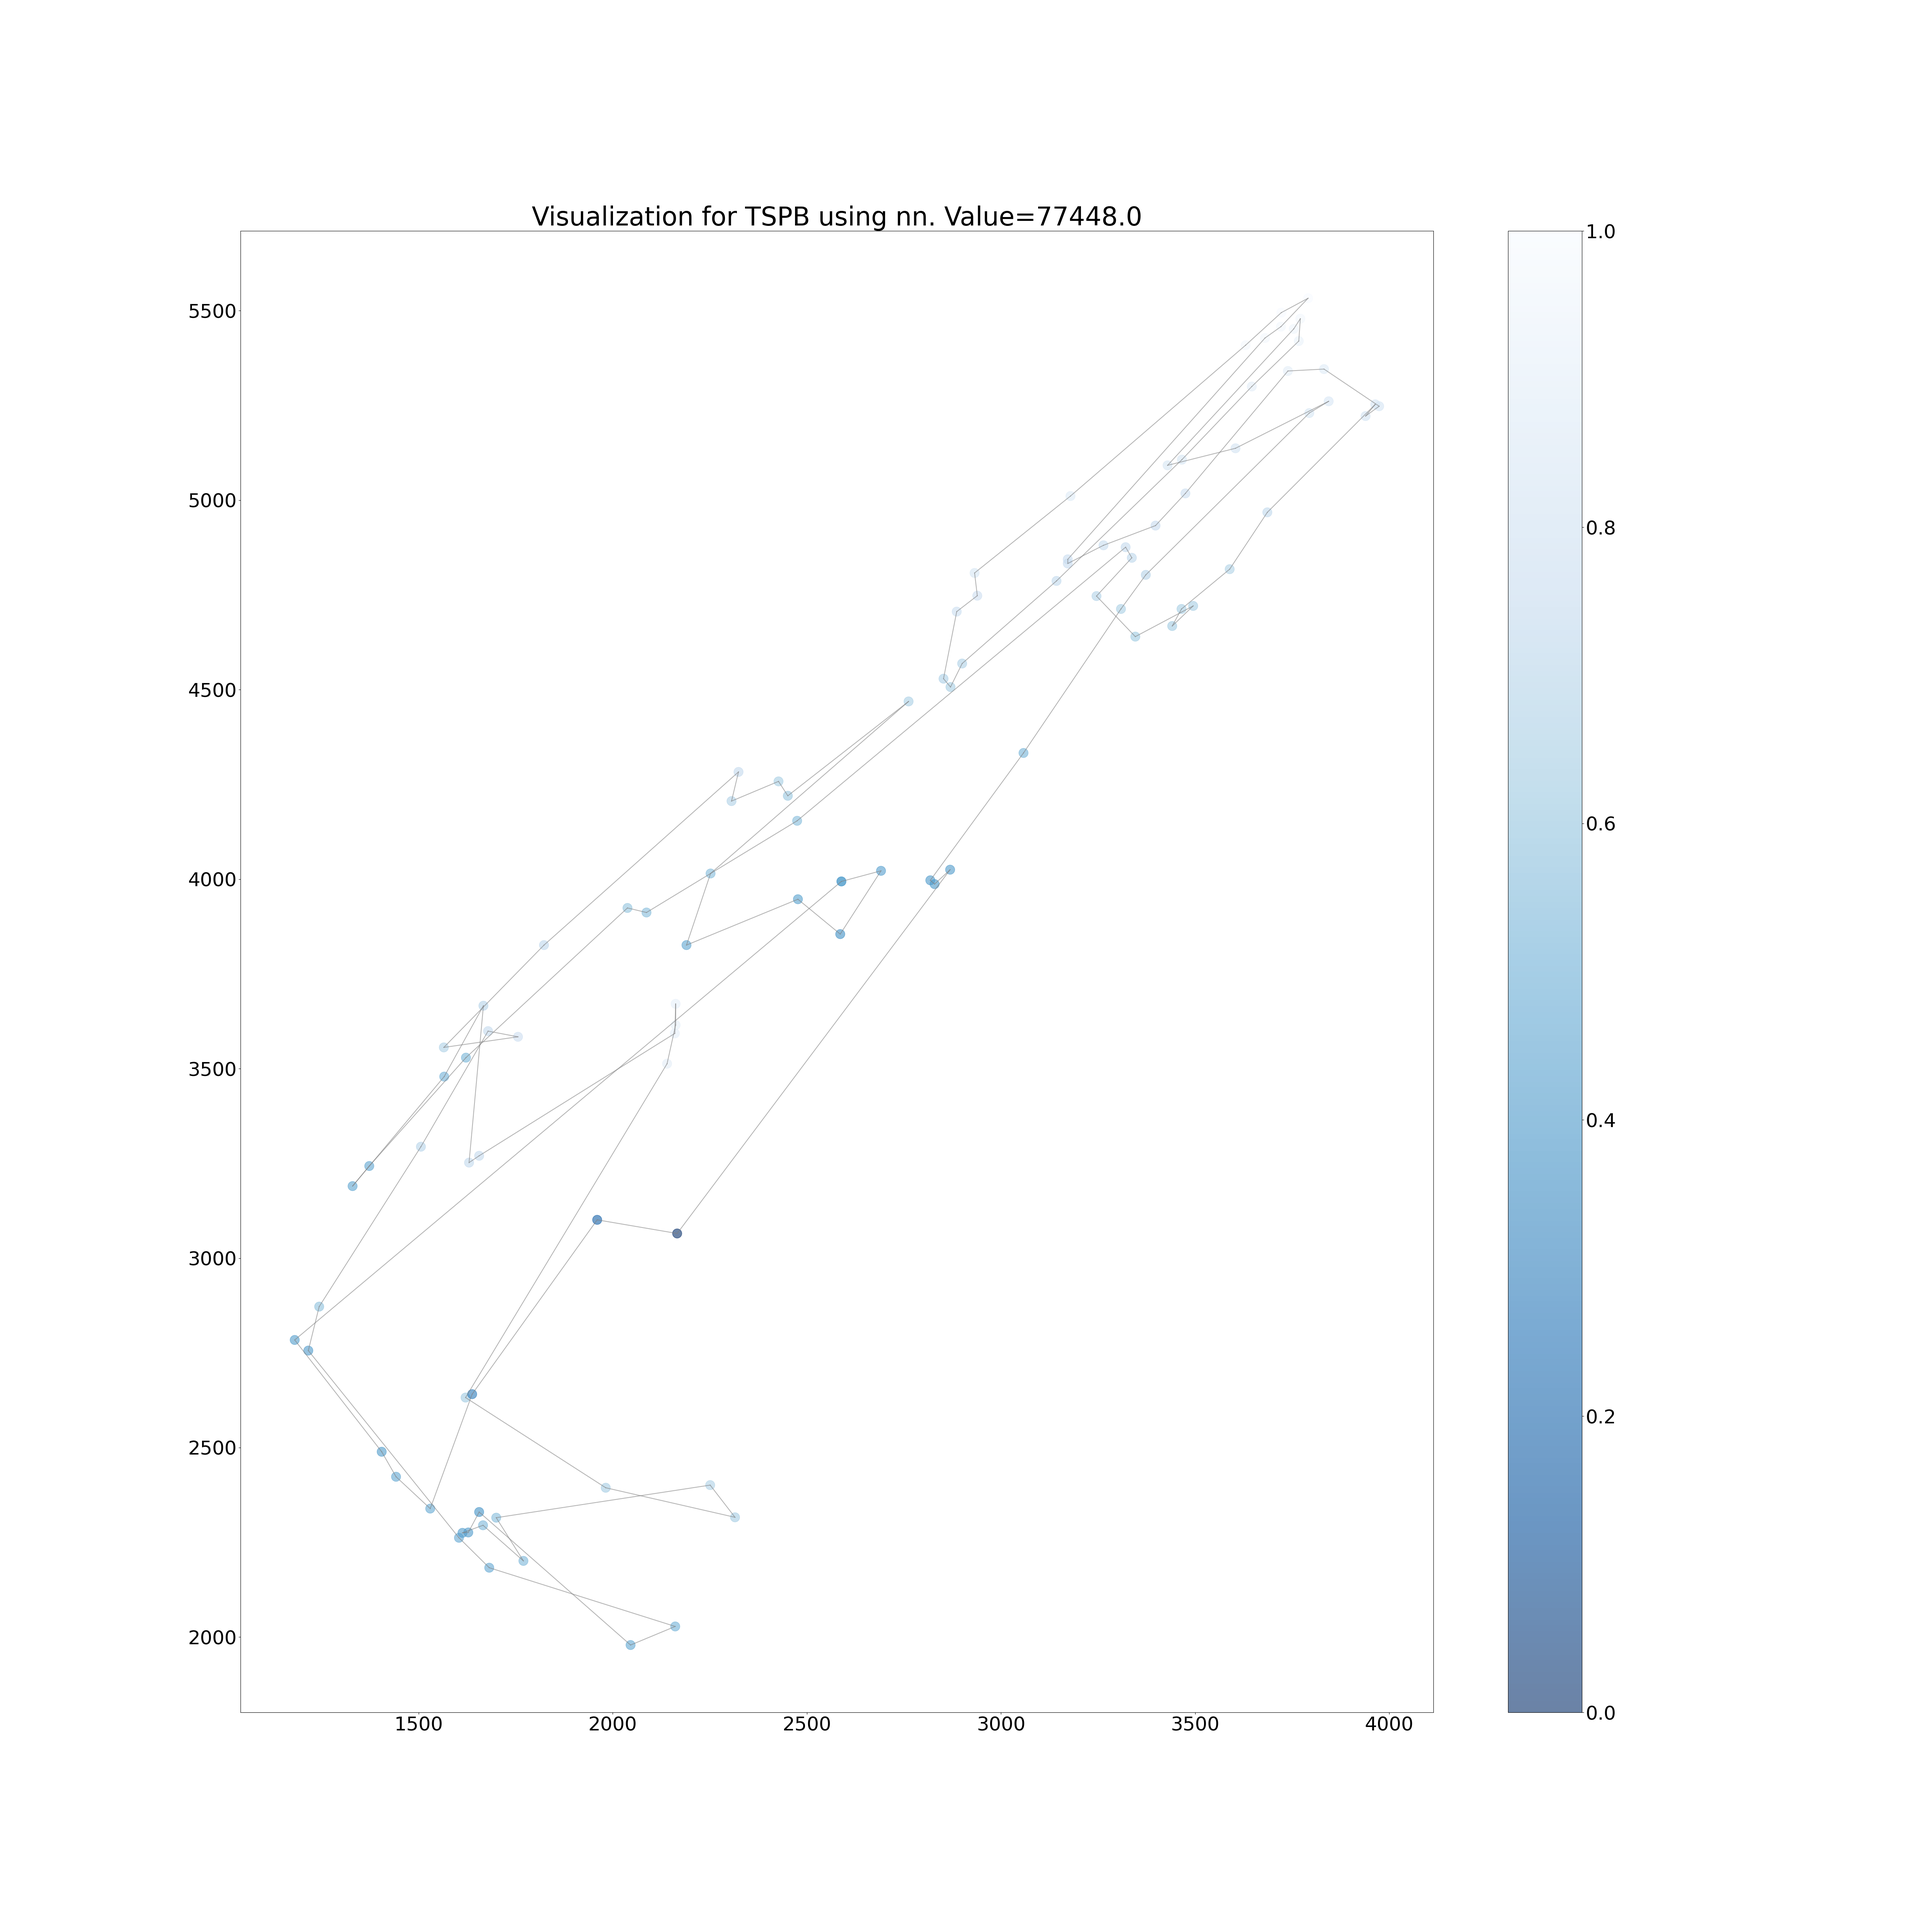
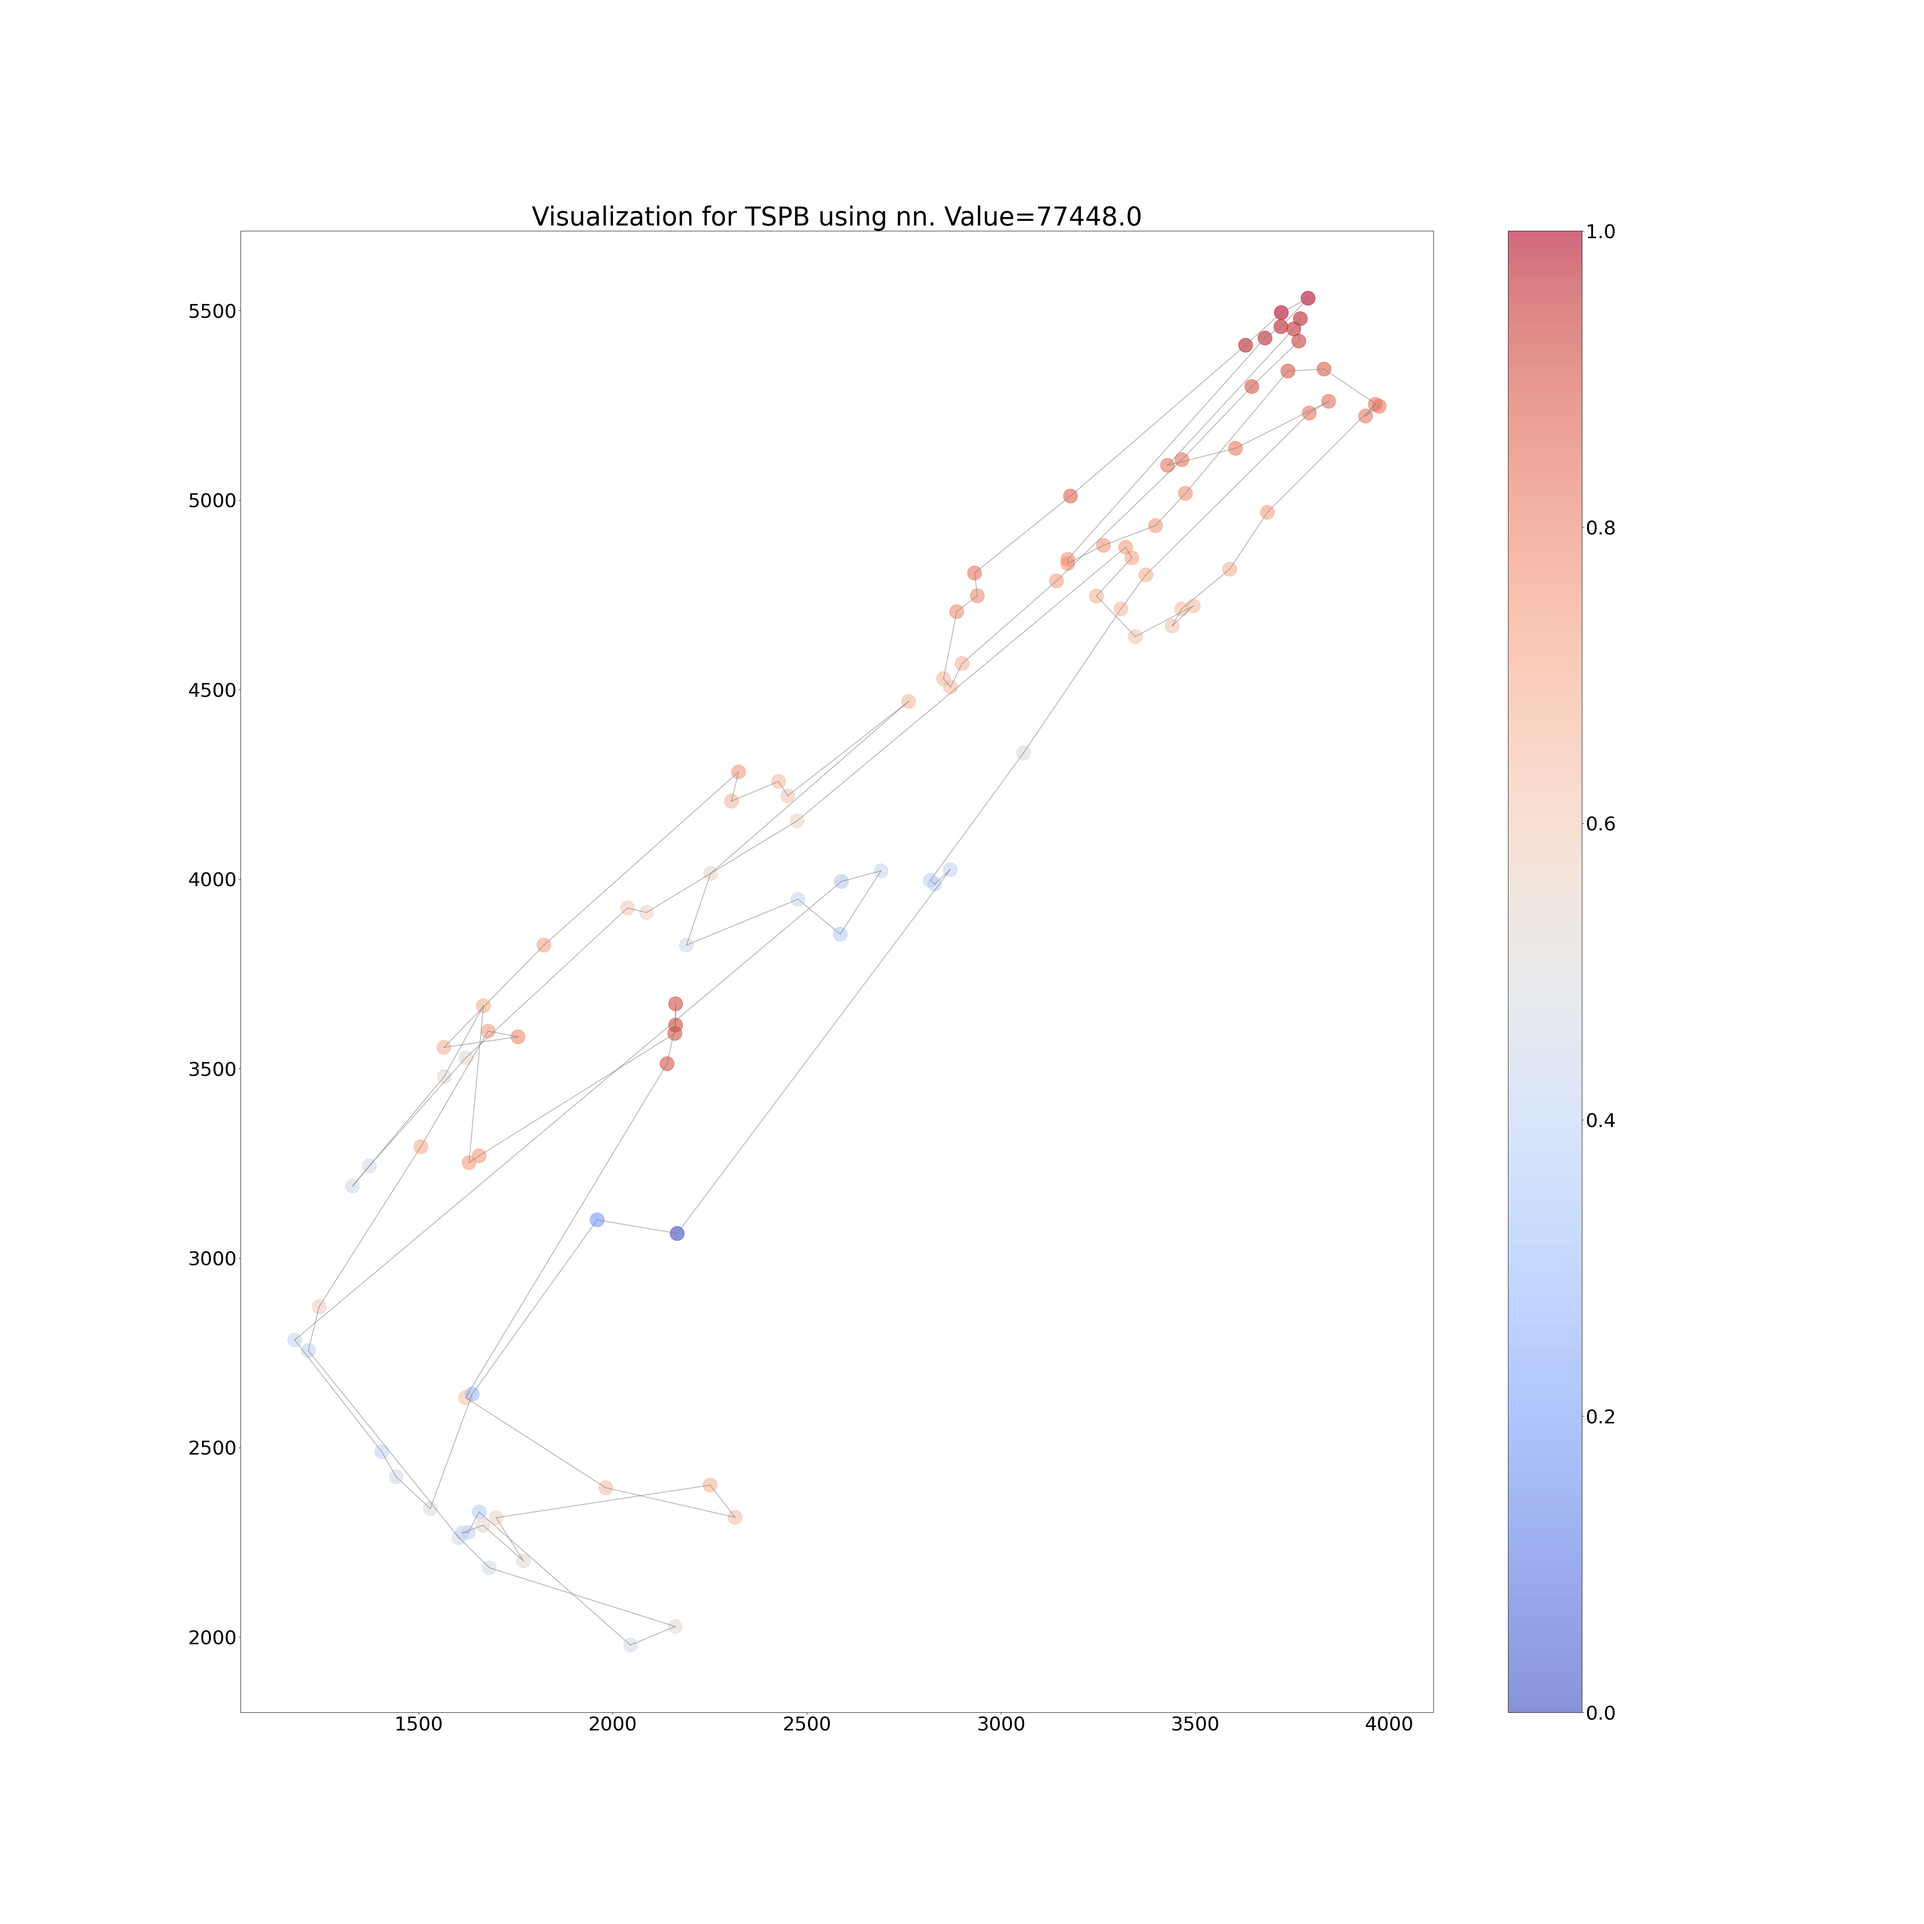
fix vizualizations

diff --git a/vizualize.py b/vizualize.py
@@ -25,7 +25,7 @@ def plot_solution(matrix: list[list[int]], best_solutions: dict, problem_name: s
 
     normalized_costs = (costs - np.min(costs)) / (np.max(costs) - np.min(costs))
 
-    plt.scatter(x_coords, y_coords, s=300, c=normalized_costs, cmap='Blues_r', alpha=0.6)
+    plt.scatter(x_coords, y_coords, s=700, c=normalized_costs, cmap='coolwarm', alpha=0.6)
 
     for i in range(len(nodes) - 1):
         x1, y1 = matrix[nodes[i]][:2]
